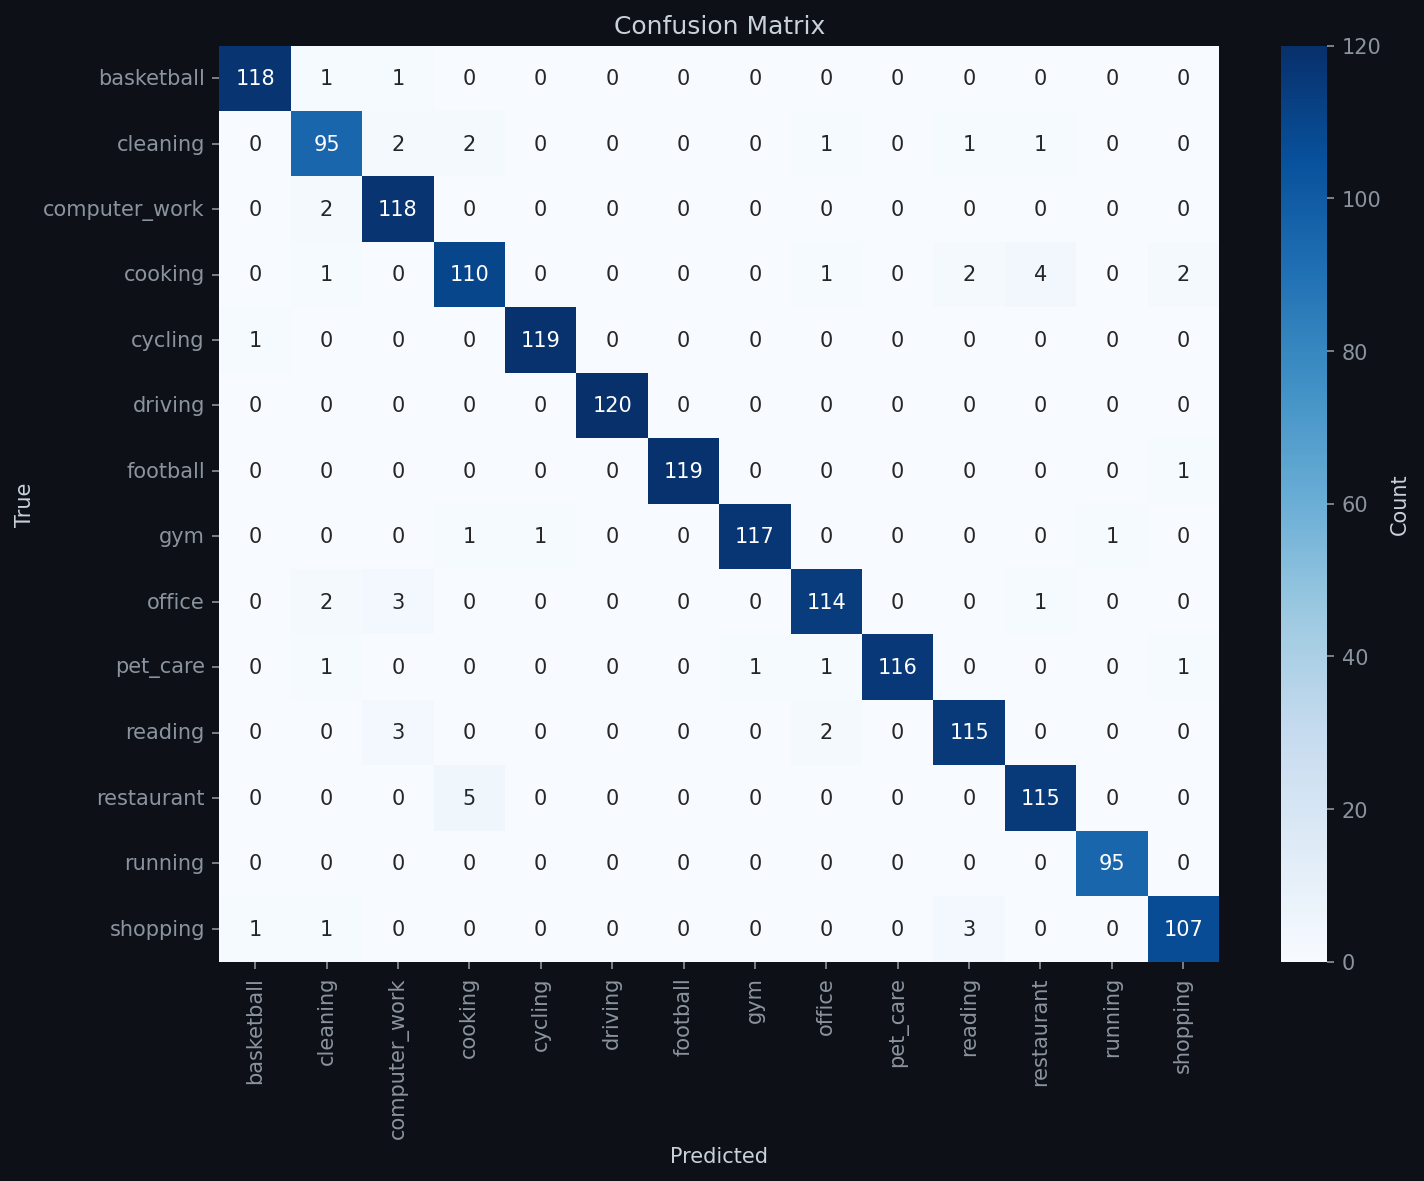
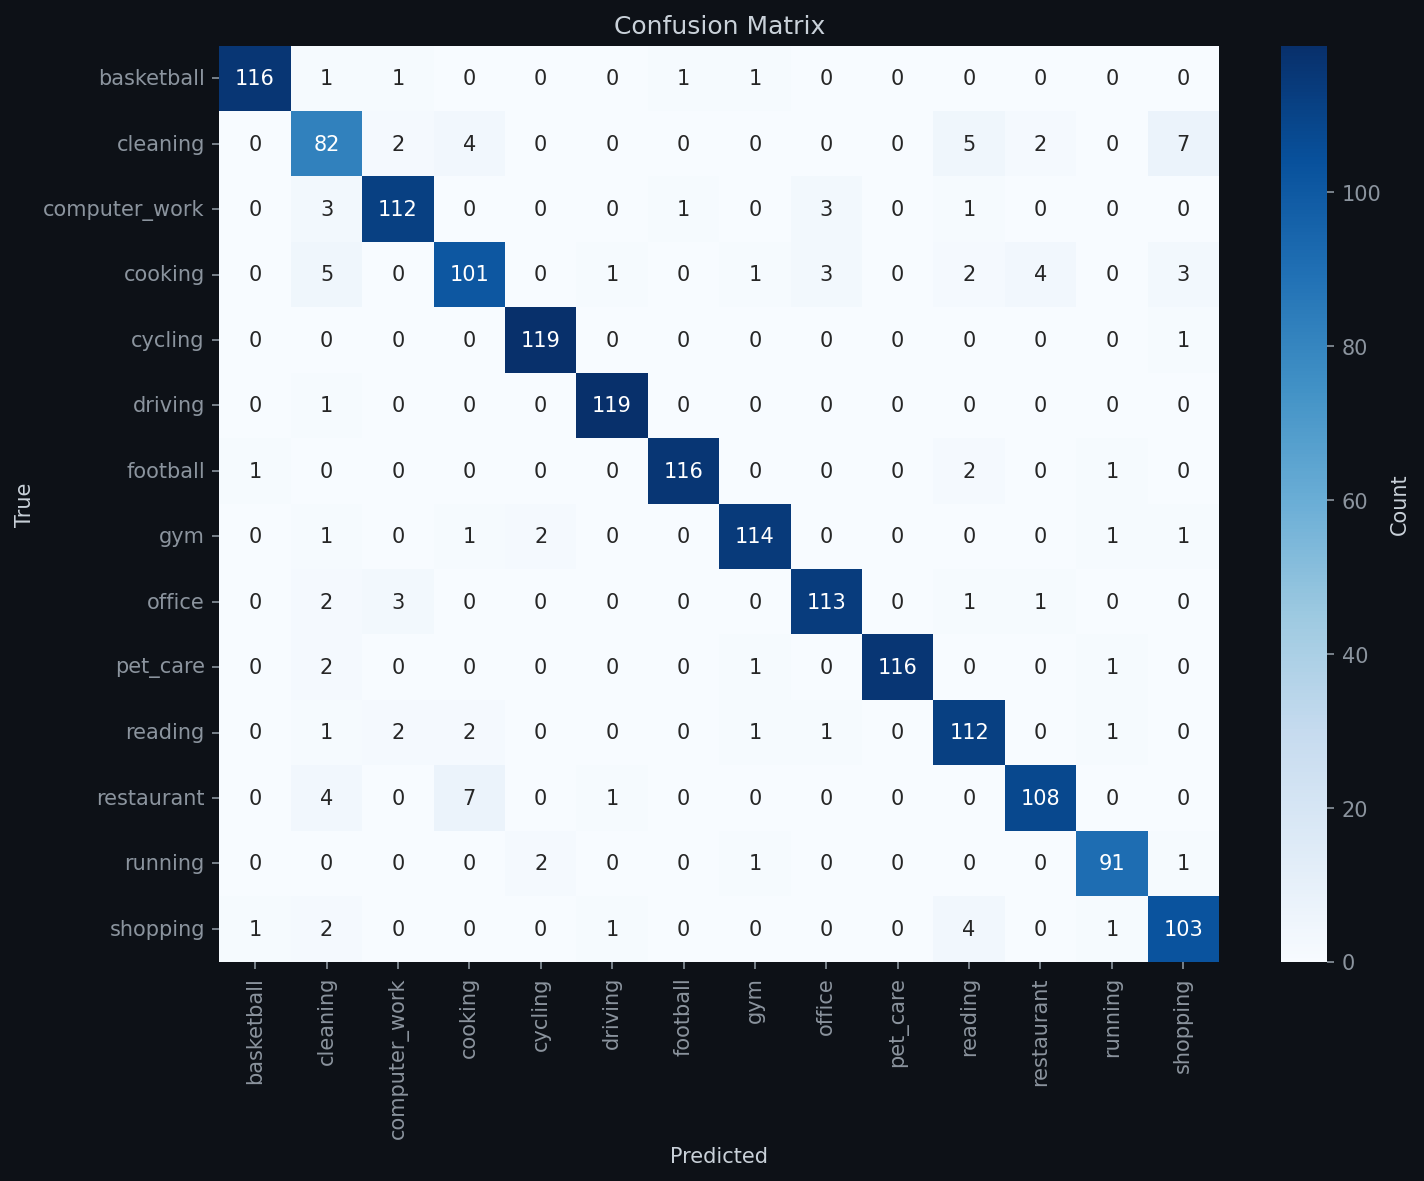
Some changes

diff --git a/src/image_to_prompt/training/ablation_study.py b/src/image_to_prompt/training/ablation_study.py
@@ -52,27 +52,27 @@ EXPERIMENTS = {
         "augmentation": True,
         "frozen_phase": True,
         "epochs_frozen": 5,
-        "epochs_unfrozen": 20,
+        "epochs_unfrozen": 25,
         "description": "Full pipeline: augmentation + frozen phase",
     },
     "no_augmentation": {
         "augmentation": False,
         "frozen_phase": True,
         "epochs_frozen": 5,
-        "epochs_unfrozen": 20,
+        "epochs_unfrozen": 25,
         "description": "No augmentation: only resize + normalize",
     },
     "no_frozen_phase": {
         "augmentation": True,
         "frozen_phase": False,
-        "epochs_frozen": 0,
+        "epochs_frozen": 5,
         "epochs_unfrozen": 25,
         "description": "No frozen phase: all layers trained from epoch 1",
     },
     "no_aug_no_frozen": {
         "augmentation": False,
         "frozen_phase": False,
-        "epochs_frozen": 0,
+        "epochs_frozen": 5,
         "epochs_unfrozen": 25,
         "description": "Bare minimum: no augmentation + no frozen phase",
     },
@@ -85,7 +85,7 @@ BASE_CONFIG = {
     "lr_backbone": 1e-5,
     "weight_decay": 1e-4,
     "label_smoothing": 0.1,
-    "early_stopping_patience": 5,
+    "early_stopping_patience": 10,
     "early_stopping_min_delta": 0.001,
 }
 
@@ -121,7 +121,7 @@ def get_transforms(augmentation: bool):
 
 
 class EarlyStopping:
-    def __init__(self, patience: int = 5, min_delta: float = 0.001):
+    def __init__(self, patience: int = 10, min_delta: float = 0.001):
         self.patience = patience
         self.min_delta = min_delta
         self.counter = 0

diff --git a/src/image_to_prompt/training/train_classifier.py b/src/image_to_prompt/training/train_classifier.py
@@ -34,12 +34,12 @@ CONFIG = {
     "image_size": 380,
     "batch_size": 32,
     "epochs_frozen": 5,
-    "epochs_unfrozen": 20,
+    "epochs_unfrozen": 25,
     "lr_head": 1e-3,
     "lr_backbone": 1e-5,
     "weight_decay": 1e-4,
     "label_smoothing": 0.1,
-    "early_stopping_patience": 5,
+    "early_stopping_patience": 10,
     "early_stopping_min_delta": 0.001,
     "data_root": str(DATA_ROOT),
     "save_path": DEFAULT_SAVE_PATH,
